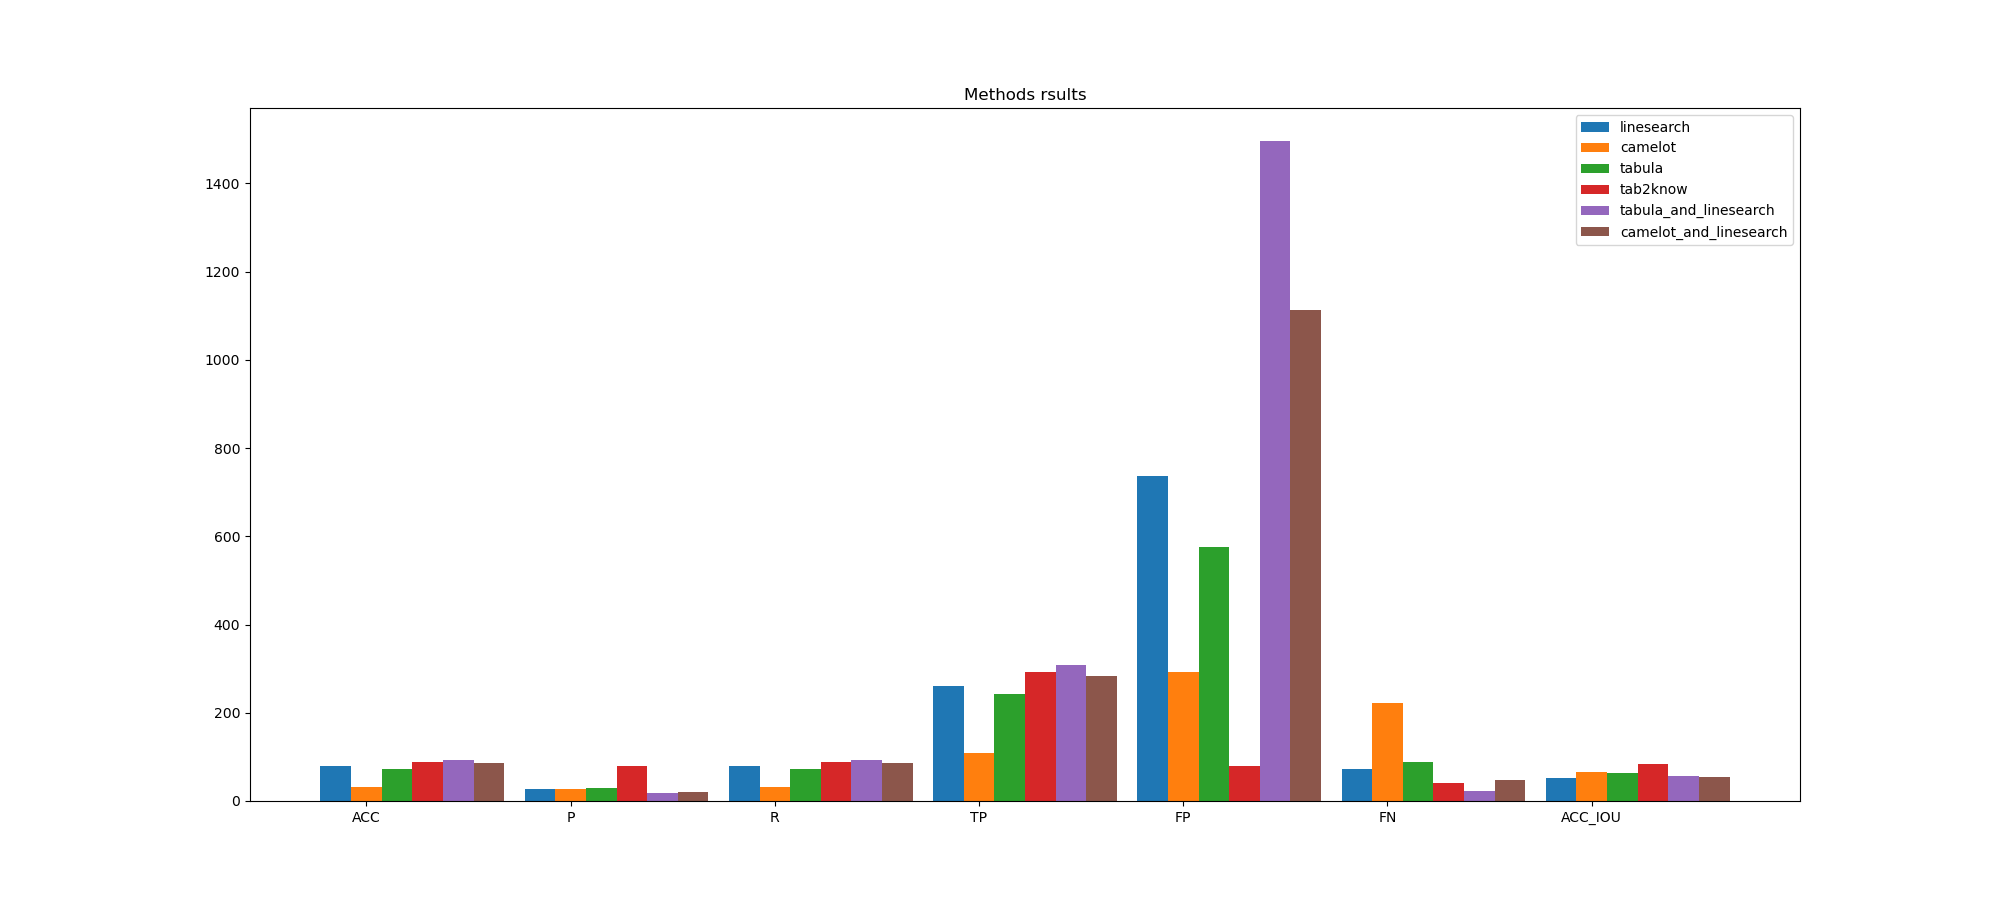
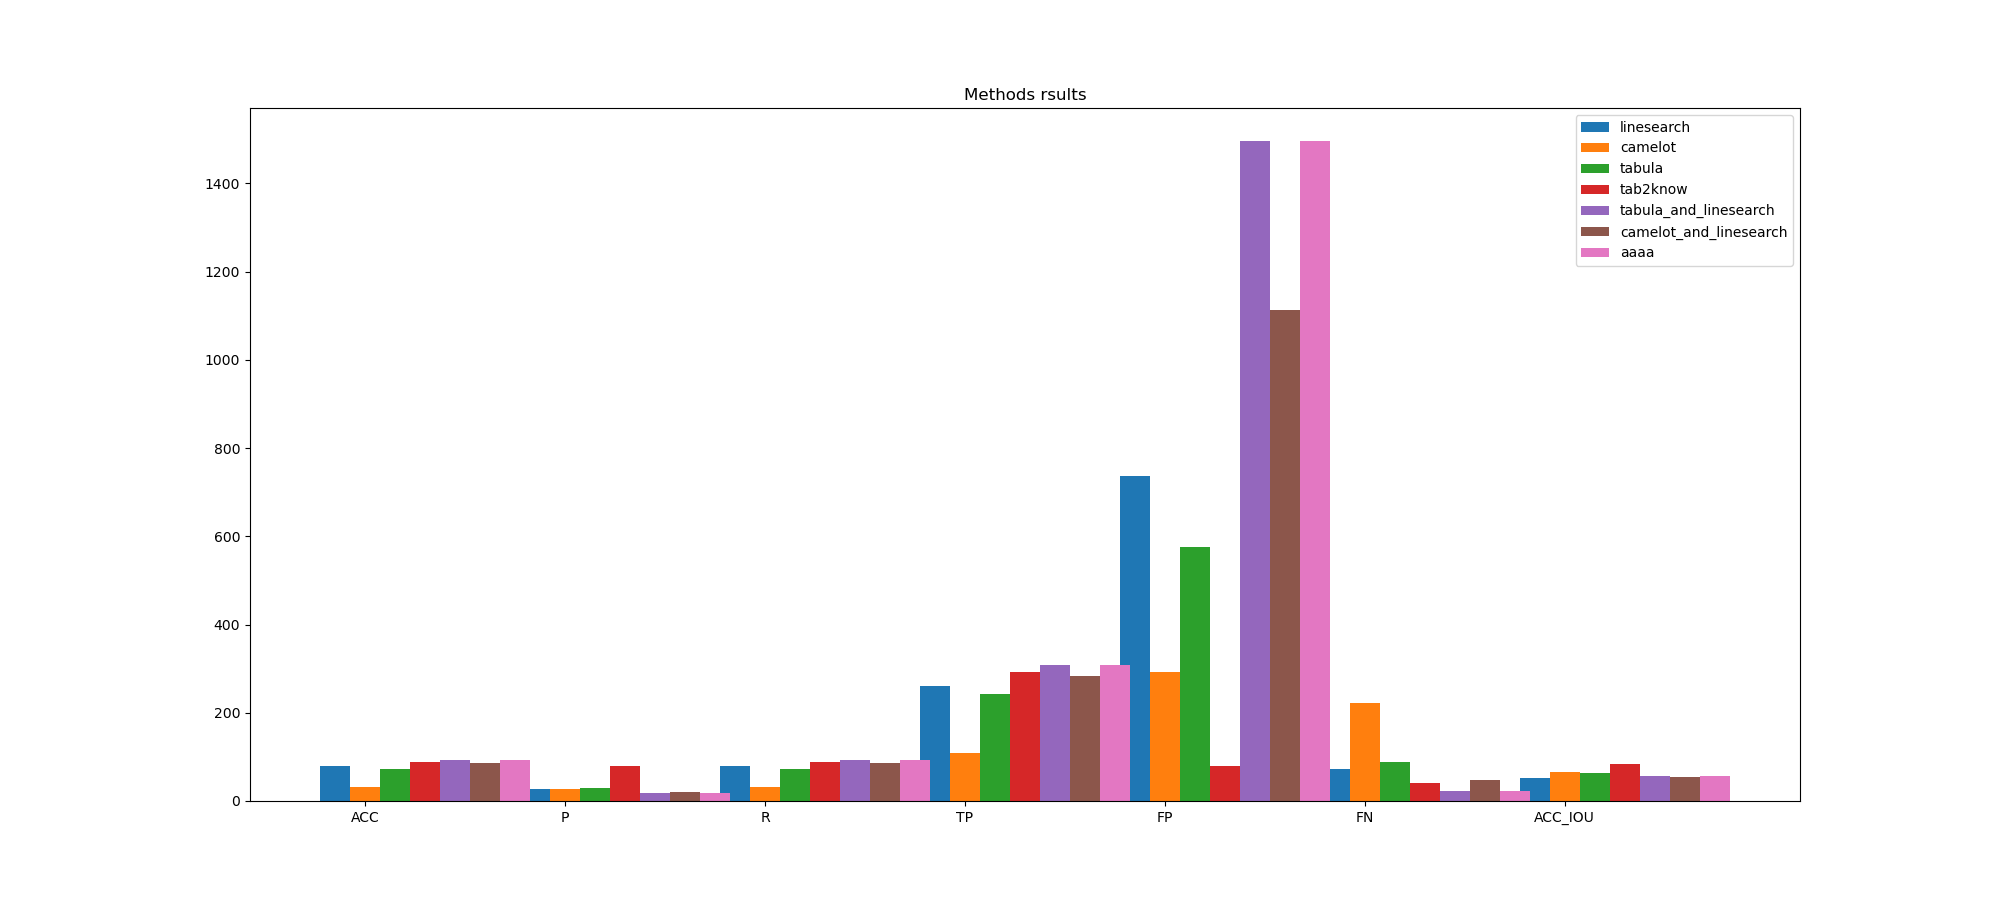
Runned all methods.

Changed region(s): [[0.248, 0.1556, 0.868, 0.9333], [0.775, 0.28, 0.837, 0.3111]]

diff --git a/analysis/pdf2info_tests/show_results_of_method.py b/analysis/pdf2info_tests/show_results_of_method.py
@@ -1,4 +1,5 @@
 import logging
+import argparse
 import sys
 sys.path.insert(0, "../../")
 from core.analysis.results_plotter import plot_save_results
@@ -13,7 +14,12 @@ def create_plots_results(method_used:str, show_fig:bool=True):
 
 
 if __name__ == '__main__':
+    parser = argparse.ArgumentParser(description='View results from extracted tables.')
+    parser.add_argument('--hide', action='store_true', help='Hide figure')
+    parser.add_argument('--method', type=str, required=True, help='Method used')
+    args = parser.parse_args()
     logging.basicConfig(level=logging.DEBUG)
-    method_used = 'camelot_and_linesearch'
-    create_plots_results(method_used, show_fig=True)
+    method_used = args.method
+    show_fig = not args.hide
+    create_plots_results(method_used, show_fig=show_fig)
 
